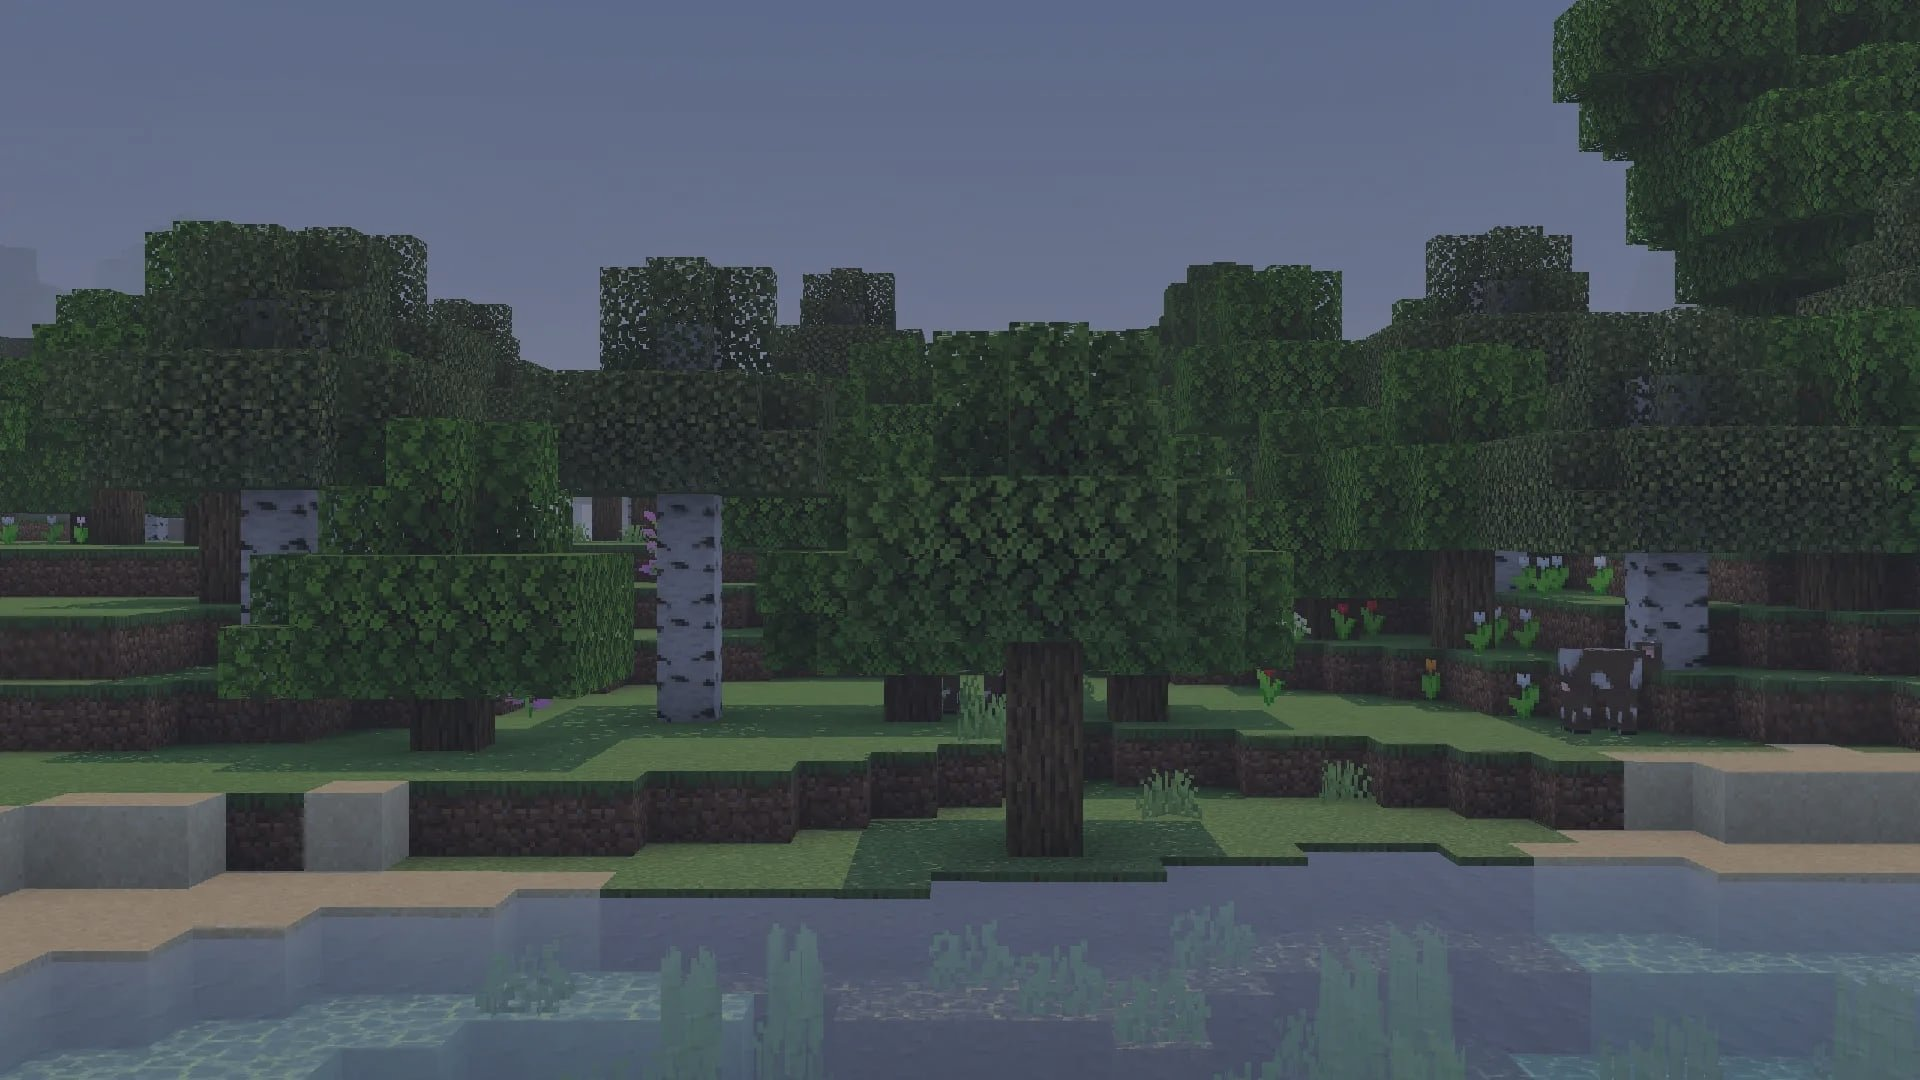
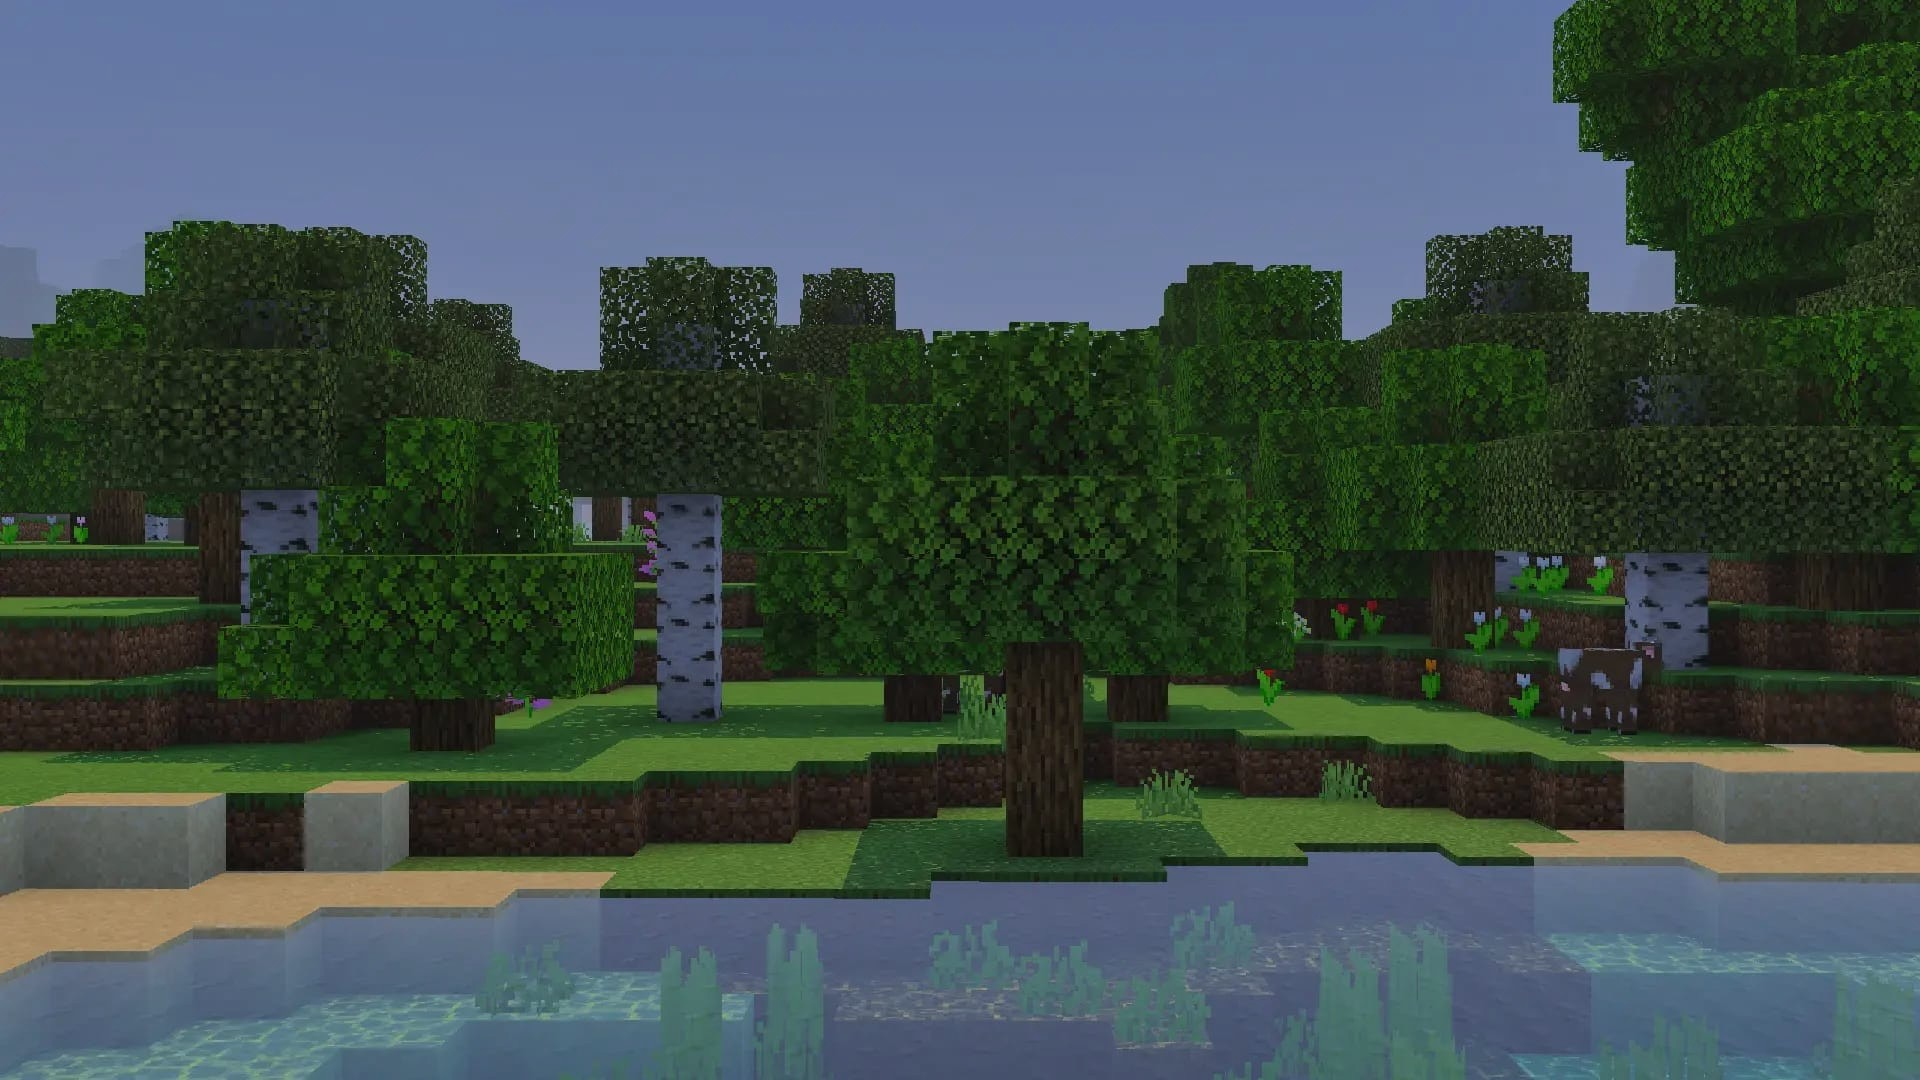
Match header sizing, remove color tint, fix stripe bars

diff --git a/index.html b/index.html
@@ -71,15 +71,15 @@
   }
 
   header img {
-    width: 40px;
-    height: 40px;
-    border-radius: 8px;
+    width: 48px;
+    height: 48px;
+    border-radius: 6px;
   }
 
   header span {
     font-family: "Minecraft", "Mojangles", monospace;
-    font-size: 22px;
-    letter-spacing: 0.5px;
+    font-size: 38px;
+    letter-spacing: -1px;
     color: var(--header-text);
   }
 
@@ -93,7 +93,7 @@
     padding: 60px 20px;
     gap: 24px;
     background-image:
-      linear-gradient(rgba(20,20,25,0.15), rgba(20,20,25,0.45)),
+      linear-gradient(rgba(0,0,0,0.12), rgba(0,0,0,0.3)),
       url("images/hero-bg.jpg");
     background-size: cover;
     background-position: center;
@@ -109,22 +109,34 @@
   .stripes {
     display: flex;
     flex-direction: column;
-    gap: 4px;
+    gap: 3px;
   }
 
   .stripes span {
     display: block;
-    height: 8px;
+    height: 9px;
     background: var(--red);
   }
 
   .stripes.left span:nth-child(1) { width: 46px; align-self: flex-end; }
-  .stripes.left span:nth-child(2) { width: 30px; align-self: flex-end; }
-  .stripes.left span:nth-child(3) { width: 16px; align-self: flex-end; }
+  .stripes.left span:nth-child(2) {
+    width: 30px; align-self: flex-end;
+    background: linear-gradient(to right, var(--red) 0 75%, var(--shadow) 75% 100%);
+  }
+  .stripes.left span:nth-child(3) {
+    width: 16px; align-self: flex-end;
+    background: linear-gradient(to right, var(--red) 0 25%, var(--shadow) 25% 100%);
+  }
 
   .stripes.right span:nth-child(1) { width: 46px; }
-  .stripes.right span:nth-child(2) { width: 30px; }
-  .stripes.right span:nth-child(3) { width: 16px; }
+  .stripes.right span:nth-child(2) {
+    width: 30px;
+    background: linear-gradient(to left, var(--red) 0 75%, var(--shadow) 75% 100%);
+  }
+  .stripes.right span:nth-child(3) {
+    width: 16px;
+    background: linear-gradient(to left, var(--red) 0 25%, var(--shadow) 25% 100%);
+  }
 
   h1 {
     font-family: "Minecraft", "Mojangles", monospace;
